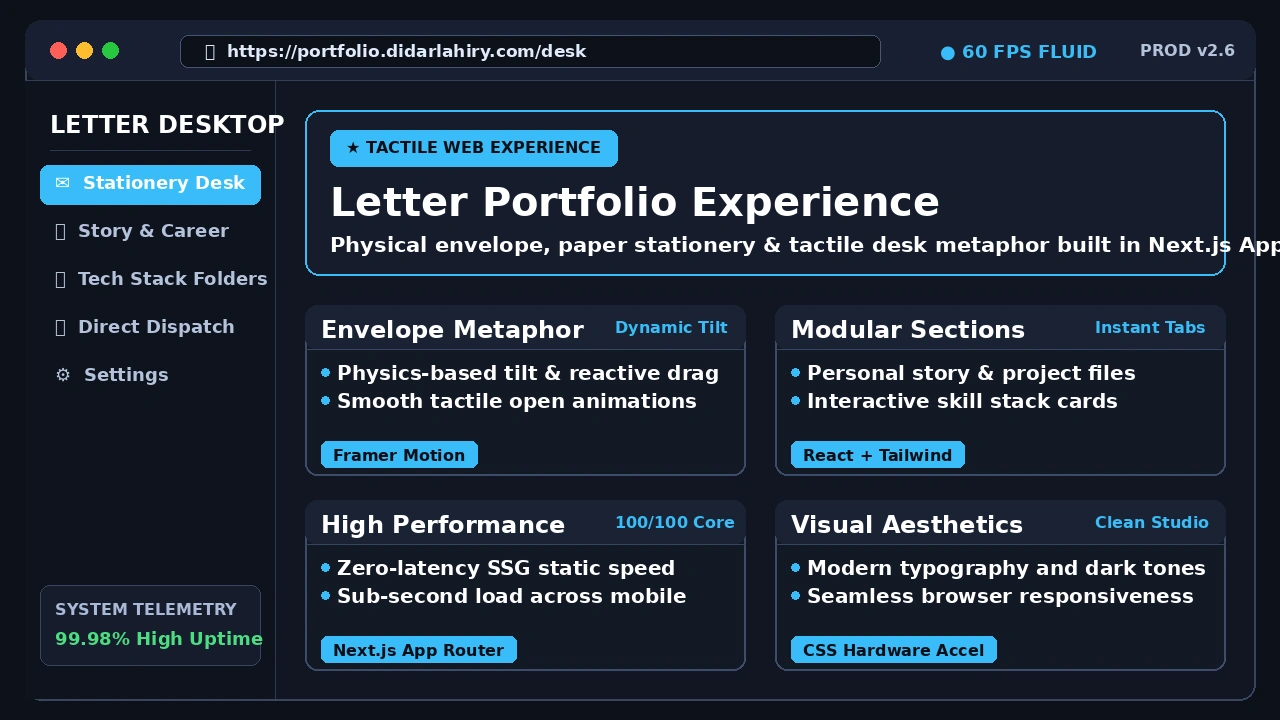
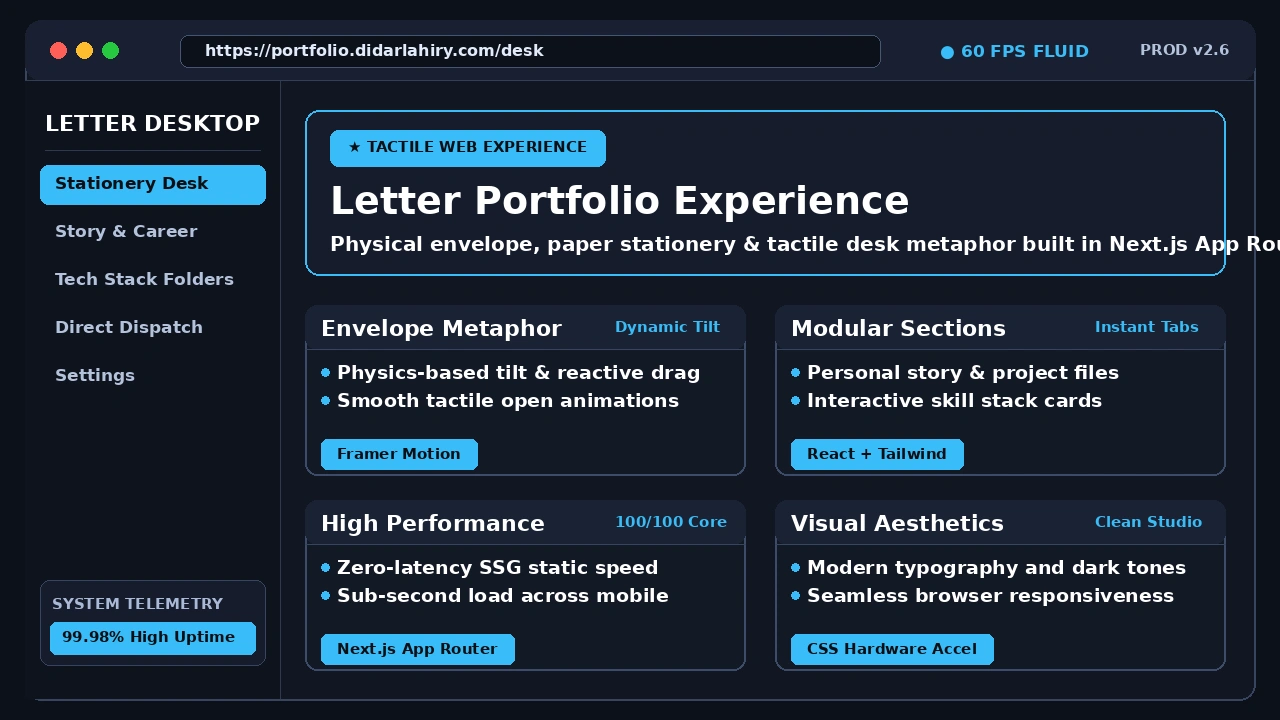
Set solid background with bold deep black text for all colored badges and tags, with extra safety padding ensuring complete container wrap

diff --git a/make_clean_pc_posters.py b/make_clean_pc_posters.py
@@ -10,17 +10,18 @@ def make_perfect_poster(filename, app_name, url_bar, accent_color, hero_tag, her
     font_bold = "/usr/share/fonts/truetype/dejavu/DejaVuSans-Bold.ttf"
     font_bengali = "/usr/share/fonts/truetype/noto/NotoSansBengali-Bold.ttf"
 
-    f_title_main = ImageFont.truetype(font_bold, 40)
-    f_title_b = ImageFont.truetype(font_bengali, 38)
-    f_h2 = ImageFont.truetype(font_bold, 24)
-    f_card_title = ImageFont.truetype(font_bold, 24)
-    f_body = ImageFont.truetype(font_bold, 20)
-    f_desc = ImageFont.truetype(font_bold, 21)
-    f_tag = ImageFont.truetype(font_bold, 18)
-    f_pill = ImageFont.truetype(font_bold, 16)
-    f_sm = ImageFont.truetype(font_bold, 16)
-    f_nav = ImageFont.truetype(font_bold, 18)
-    f_browser = ImageFont.truetype(font_bold, 17)
+    f_title_main = ImageFont.truetype(font_bold, 38)
+    f_title_b = ImageFont.truetype(font_bengali, 36)
+    f_h2 = ImageFont.truetype(font_bold, 22)
+    f_card_title = ImageFont.truetype(font_bold, 22)
+    f_body = ImageFont.truetype(font_bold, 19)
+    f_desc = ImageFont.truetype(font_bold, 20)
+    f_tag = ImageFont.truetype(font_bold, 17)
+    f_pill = ImageFont.truetype(font_bold, 15)
+    f_card_pill = ImageFont.truetype(font_bold, 15)
+    f_sm = ImageFont.truetype(font_bold, 15)
+    f_nav = ImageFont.truetype(font_bold, 17)
+    f_browser = ImageFont.truetype(font_bold, 16)
 
     # Outer Browser / OS Window Frame
     draw.rounded_rectangle([(25, 20), (1255, 700)], radius=16, fill=(17, 22, 34, 255), outline=(55, 68, 96, 255), width=2)
@@ -36,50 +37,53 @@ def make_perfect_poster(filename, app_name, url_bar, accent_color, hero_tag, her
 
     # Browser URL Address Bar
     draw.rounded_rectangle([(180, 35), (880, 67)], radius=8, fill=(13, 17, 26, 255), outline=(70, 85, 115, 255), width=1)
-    draw.text((205, 41), f"🔒  https://{url_bar}", fill=(225, 235, 250), font=f_browser)
+    draw.text((205, 41), f"https://{url_bar}", fill=(225, 235, 250), font=f_browser)
 
     # Window right status
     draw.text((940, 41), f"● {status_text}", fill=accent_color, font=f_nav)
     draw.text((1140, 41), "PROD v2.6", fill=(180, 195, 220), font=f_sm)
 
-    # Left Sidebar (width: 250px)
-    draw.rectangle([(25, 81), (275, 698)], fill=(15, 19, 30, 255))
-    draw.line([(275, 81), (275, 698)], fill=(45, 56, 80, 255), width=1)
+    # Left Sidebar (width: 255px)
+    draw.rectangle([(25, 81), (280, 698)], fill=(15, 19, 30, 255))
+    draw.line([(280, 81), (280, 698)], fill=(45, 56, 80, 255), width=1)
 
     # Sidebar Header
-    draw.text((50, 110), app_name.upper(), fill=(255, 255, 255), font=f_h2)
-    draw.line([(50, 150), (250, 150)], fill=(45, 56, 80, 255), width=1)
+    draw.text((45, 110), app_name.upper(), fill=(255, 255, 255), font=f_h2)
+    draw.line([(45, 150), (260, 150)], fill=(45, 56, 80, 255), width=1)
 
     # Sidebar Navigation items
     y_nav = 170
-    for idx, (icon, label, is_active) in enumerate(sidebar_items):
+    for idx, (label, is_active) in enumerate(sidebar_items):
         if is_active:
-            draw.rounded_rectangle([(40, y_nav - 5), (260, y_nav + 34)], radius=8, fill=(accent_color[0], accent_color[1], accent_color[2], 50), outline=accent_color, width=1)
-            draw.text((55, y_nav + 2), f"{icon}  {label}", fill=(255, 255, 255), font=f_nav)
+            # Active sidebar item: Full colored solid background with deep BLACK text!
+            draw.rounded_rectangle([(40, y_nav - 5), (265, y_nav + 34)], radius=8, fill=accent_color)
+            draw.text((55, y_nav + 3), label, fill=(10, 15, 22), font=f_nav)
         else:
-            draw.text((55, y_nav + 2), f"{icon}  {label}", fill=(180, 195, 220), font=f_nav)
+            draw.text((55, y_nav + 3), label, fill=(180, 195, 220), font=f_nav)
         y_nav += 48
 
-    # Sidebar bottom system status
-    draw.rounded_rectangle([(40, 585), (260, 665)], radius=10, fill=(22, 28, 44, 255), outline=(55, 68, 96, 255), width=1)
-    draw.text((55, 600), "SYSTEM TELEMETRY", fill=(170, 185, 215), font=f_sm)
-    draw.text((55, 628), "99.98% High Uptime", fill=(74, 222, 128), font=f_tag)
+    # Sidebar bottom system status (Solid box with bold black text)
+    draw.rounded_rectangle([(40, 580), (265, 665)], radius=10, fill=(22, 28, 44, 255), outline=(55, 68, 96, 255), width=1)
+    draw.text((52, 595), "SYSTEM TELEMETRY", fill=(170, 185, 215), font=f_sm)
+    
+    # Status Pill
+    draw.rounded_rectangle([(50, 622), (255, 654)], radius=6, fill=accent_color)
+    draw.text((62, 628), "99.98% High Uptime", fill=(10, 15, 22), font=f_pill)
 
-    # Main Workspace (width: 955px)
+    # Main Workspace (width: 950px)
     draw.rounded_rectangle([(305, 110), (1225, 275)], radius=14, fill=(22, 28, 44, 255), outline=(accent_color[0], accent_color[1], accent_color[2], 180), width=2)
     
-    # DYNAMIC PILL WIDTH: measure text length so pill completely encloses the tag!
+    # Top Tag Pill (Fully padded with black text)
     pill_text = f"★ {hero_tag.upper()}"
     bbox_pill = draw.textbbox((0, 0), pill_text, font=f_pill)
     text_w = bbox_pill[2] - bbox_pill[0]
     pill_x1 = 330
     pill_y1 = 130
-    pill_x2 = pill_x1 + text_w + 32
+    pill_x2 = pill_x1 + text_w + 36
     pill_y2 = pill_y1 + 36
 
-    # Solid vibrant background matching theme
     draw.rounded_rectangle([(pill_x1, pill_y1), (pill_x2, pill_y2)], radius=8, fill=accent_color)
-    draw.text((pill_x1 + 16, pill_y1 + 8), pill_text, fill=(10, 15, 25), font=f_pill)
+    draw.text((pill_x1 + 18, pill_y1 + 8), pill_text, fill=(10, 15, 22), font=f_pill)
 
     # Hero Title
     draw.text((330, 178), hero_title[0], fill=(255, 255, 255), font=f_title_main)
@@ -117,15 +121,15 @@ def make_perfect_poster(filename, app_name, url_bar, accent_color, hero_tag, her
             draw.text((c_tl[0] + 32, y_c), line, fill=(255, 255, 255), font=f_body)
             y_c += 28
 
-        # Card bottom pill tag dynamically sized
-        bbox_tag = draw.textbbox((0, 0), c_tag, font=f_sm)
+        # Card bottom pill tag: Full colored solid background with deep BLACK text!
+        bbox_tag = draw.textbbox((0, 0), c_tag, font=f_card_pill)
         tag_w = bbox_tag[2] - bbox_tag[0]
         tag_x1 = c_tl[0] + 16
-        tag_y1 = c_br[1] - 34
-        tag_x2 = tag_x1 + tag_w + 24
-        tag_y2 = tag_br_y = c_br[1] - 8
+        tag_y1 = c_br[1] - 36
+        tag_x2 = tag_x1 + tag_w + 32
+        tag_y2 = tag_y1 + 30
         draw.rounded_rectangle([(tag_x1, tag_y1), (tag_x2, tag_y2)], radius=6, fill=accent_color)
-        draw.text((tag_x1 + 12, tag_y1 + 5), c_tag, fill=(10, 15, 25), font=f_sm)
+        draw.text((tag_x1 + 16, tag_y1 + 6), c_tag, fill=(10, 15, 22), font=f_card_pill)
 
     # Save outputs
     out1 = os.path.join("/home/didar-lahiry/Antigravity/Target Portfolio 2/demos", filename)
@@ -139,16 +143,16 @@ make_perfect_poster(
     filename="kishan-poster.webp",
     app_name="Kishan Dashboard",
     url_bar="kishan.agro.bd/live-market",
-    accent_color=(74, 222, 128), # Bright Emerald
+    accent_color=(74, 222, 128), # Bright Emerald Green
     hero_tag="National Agriculture Telemetry",
     hero_title=("Kishan AI Platform", "(কৃষাণ)"),
     hero_desc="Live DAM Market Price Intelligence, 7-Day Weather Forecasting & Bengali Voice Assistant.",
     sidebar_items=[
-        ("📊", "Market Telemetry", True),
-        ("🌦", "Weather Advisory", False),
-        ("🗣", "Bangla TTS Voice", False),
-        ("🚨", "Disaster Alert SMS", False),
-        ("⚙", "API Integrations", False)
+        ("Market Telemetry", True),
+        ("Weather Advisory", False),
+        ("Bangla TTS Voice", False),
+        ("Disaster Alert SMS", False),
+        ("API Integrations", False)
     ],
     status_text="LIVE CONNECTED",
     ui_cards=[
@@ -169,11 +173,11 @@ make_perfect_poster(
     hero_title=("Letter Portfolio Experience", ""),
     hero_desc="Physical envelope, paper stationery & tactile desk metaphor built in Next.js App Router.",
     sidebar_items=[
-        ("✉", "Stationery Desk", True),
-        ("📂", "Story & Career", False),
-        ("🛠", "Tech Stack Folders", False),
-        ("📬", "Direct Dispatch", False),
-        ("⚙", "Settings", False)
+        ("Stationery Desk", True),
+        ("Story & Career", False),
+        ("Tech Stack Folders", False),
+        ("Direct Dispatch", False),
+        ("Settings", False)
     ],
     status_text="60 FPS FLUID",
     ui_cards=[
@@ -194,11 +198,11 @@ make_perfect_poster(
     hero_title=("E-Commerce AI Sales Agent", ""),
     hero_desc="24/7 autonomous Telegram representative managing products, customer advice & live checkout.",
     sidebar_items=[
-        ("🤖", "Autonomous Agent", True),
-        ("🛍", "Catalog & Sizing", False),
-        ("📦", "Cart & Orders", False),
-        ("👥", "Supervisor Handoff", False),
-        ("📊", "Conversion Stats", False)
+        ("Autonomous Agent", True),
+        ("Catalog & Sizing", False),
+        ("Cart & Orders", False),
+        ("Supervisor Handoff", False),
+        ("Conversion Stats", False)
     ],
     status_text="24/7 STANDBY",
     ui_cards=[
@@ -219,11 +223,11 @@ make_perfect_poster(
     hero_title=("Facebook 24/7 AI Automation", ""),
     hero_desc="Fully automated Facebook page manager: 3x daily AI posts, Pillow visual banners & Messenger chatbot.",
     sidebar_items=[
-        ("⚡", "Auto Publishing", True),
-        ("🎨", "Graphic Banners", False),
-        ("💬", "Comment Engine", False),
-        ("📩", "Messenger Concierge", False),
-        ("📈", "Page Growth", False)
+        ("Auto Publishing", True),
+        ("Graphic Banners", False),
+        ("Comment Engine", False),
+        ("Messenger Concierge", False),
+        ("Page Growth", False)
     ],
     status_text="SCHEDULE ACTIVE",
     ui_cards=[
